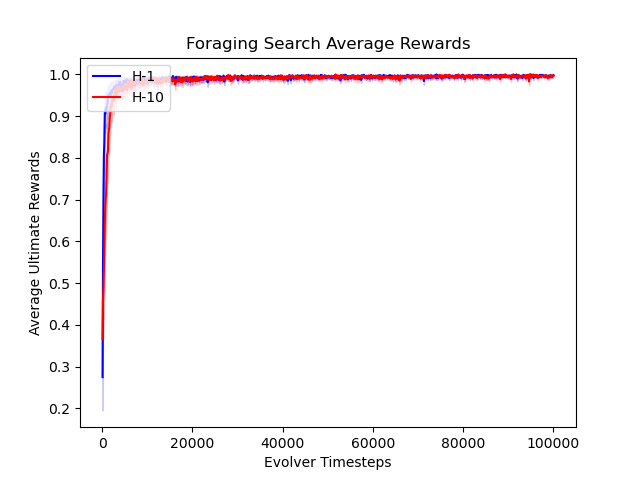
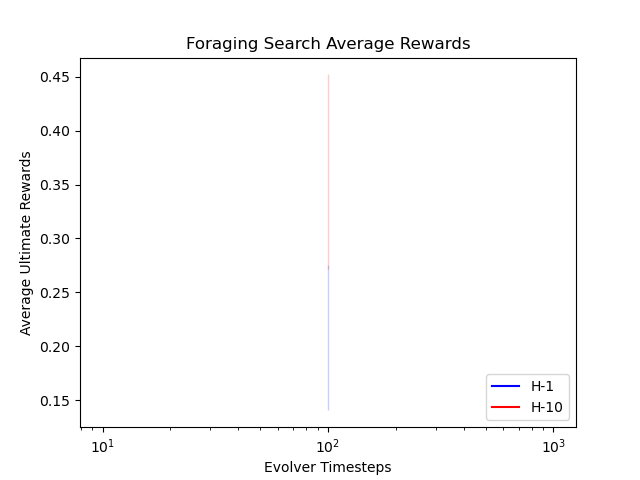
lsakdmf

diff --git a/baldwin_random_walk.py b/baldwin_random_walk.py
@@ -83,7 +83,7 @@ if __name__ == '__main__':
 
 	step_size = 1
 
-	evolver_timesteps = 100000
+	evolver_timesteps = 10000000
 
 	#Ts = np.arange(evolver_timesteps) + 1
 	averaging_window = 100
@@ -125,10 +125,11 @@ if __name__ == '__main__':
 	
 
 
+	plt.xscale("log")
 	plt.title("Foraging Search Average Rewards")
 	plt.xlabel("Evolver Timesteps")
 	plt.ylabel("Average Ultimate Rewards")
-	plt.legend(loc = "upper left")
+	plt.legend(loc = "lower right")
 	plt.savefig("./plots/randomwalk_baldwin.png")
 
 
